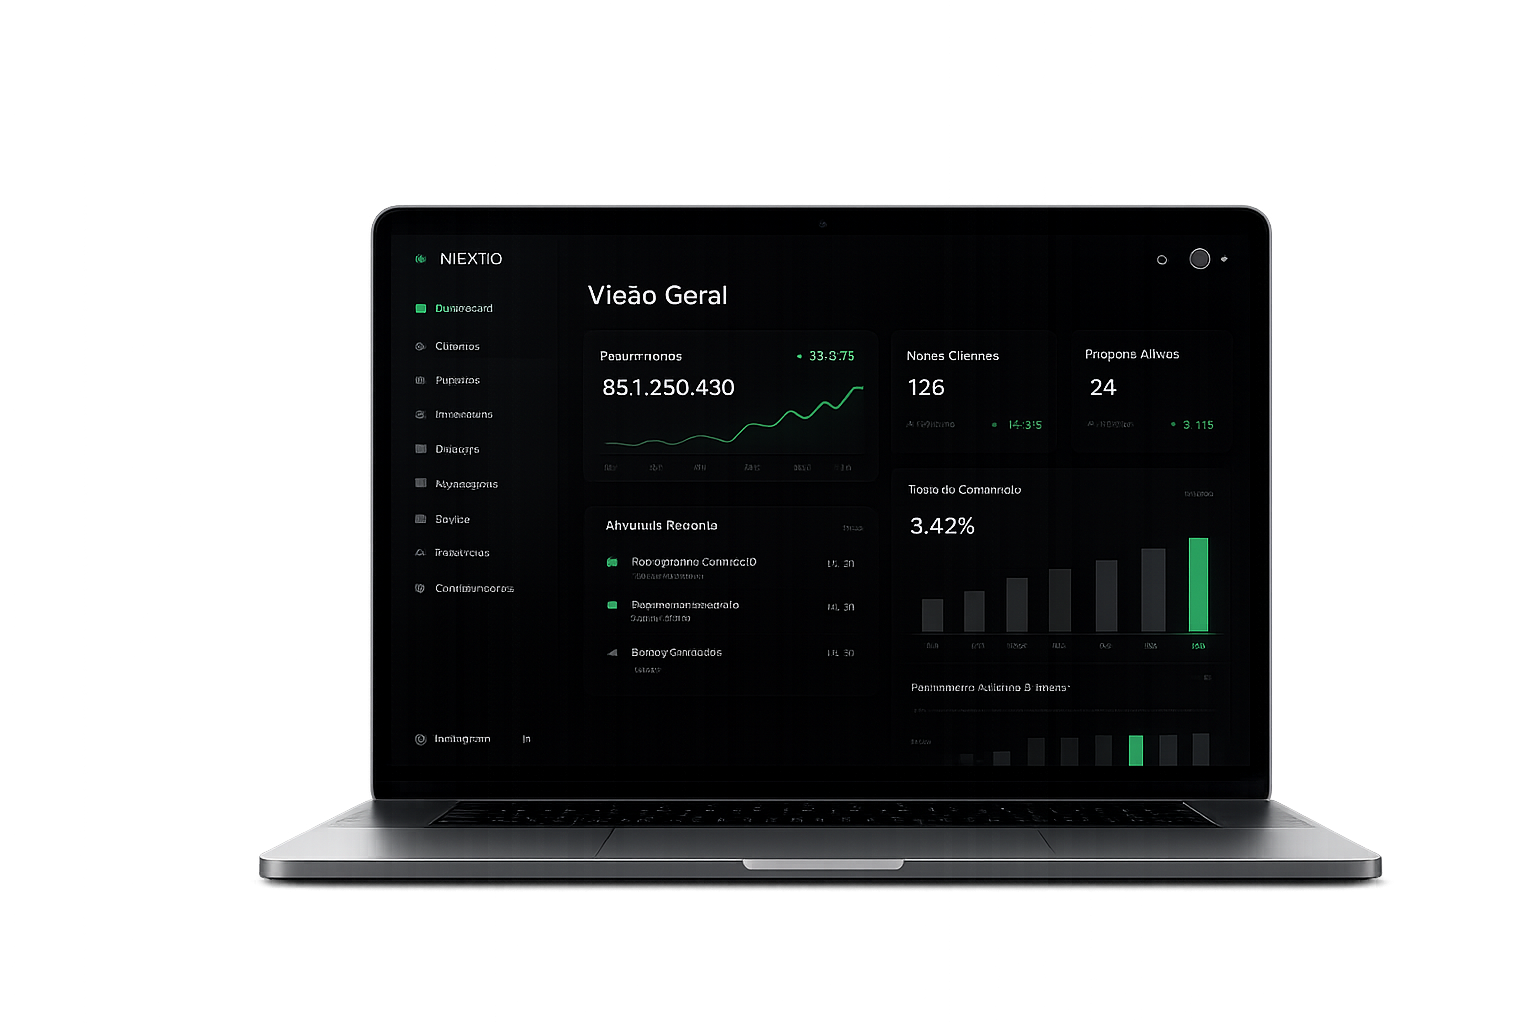
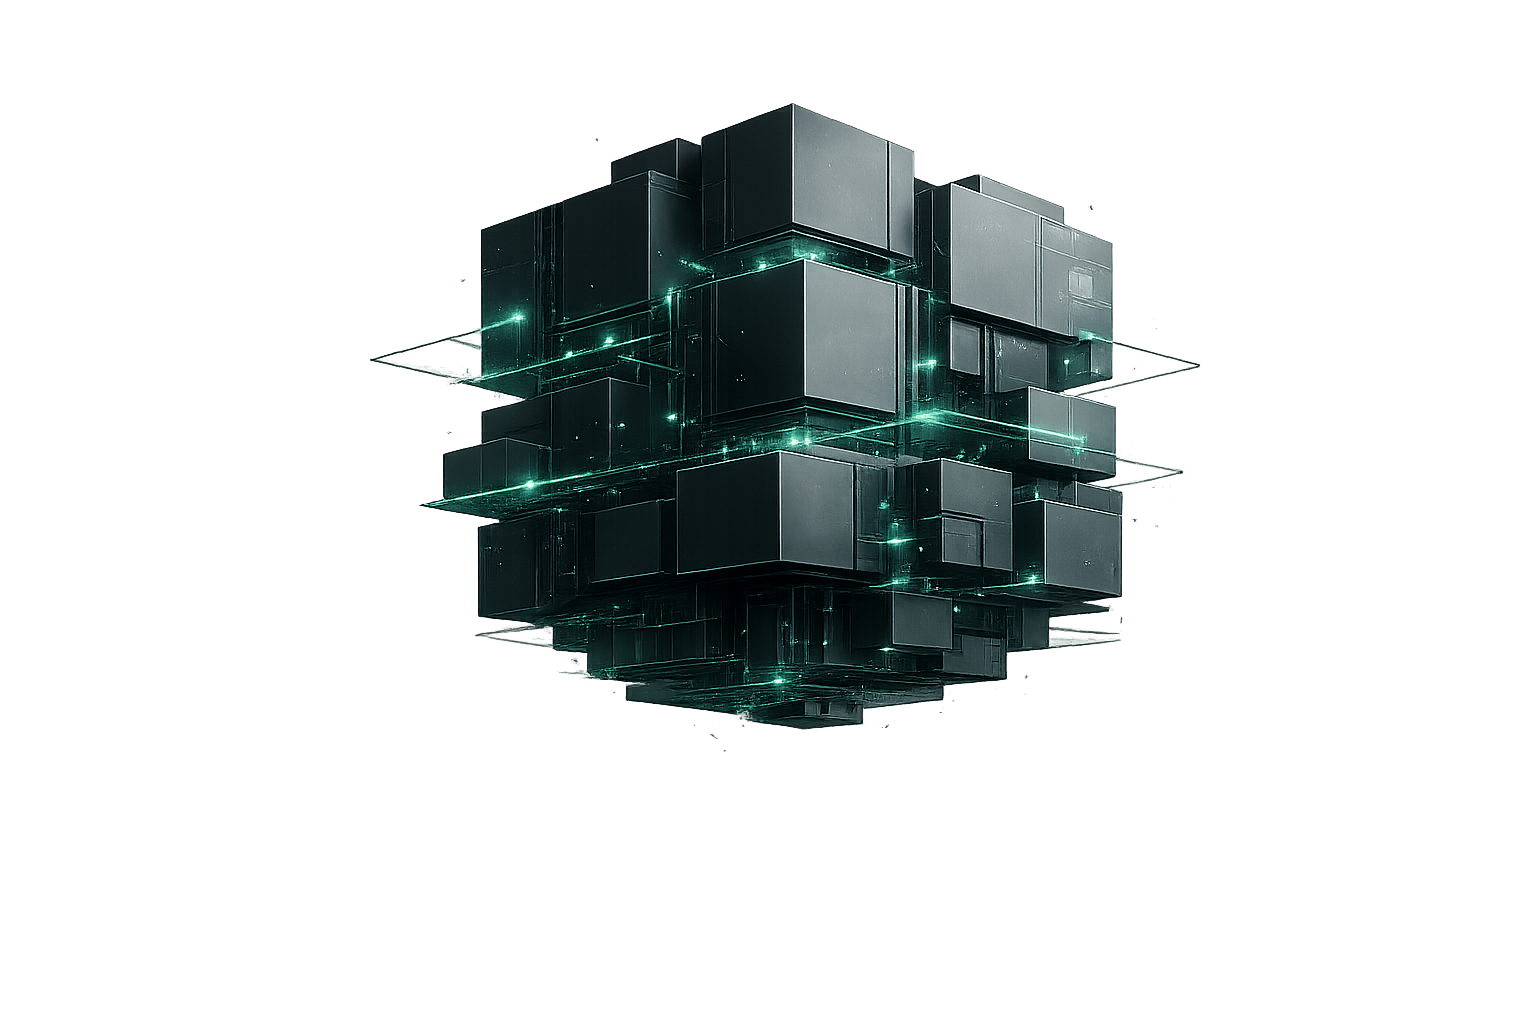
feat: update hero section responsive design, refresh assets, and adjust admin auth rate limits

diff --git a/frontend/src/components/Hero.tsx b/frontend/src/components/Hero.tsx
@@ -54,15 +54,15 @@ const Hero = () => {
             {...HERO_FADE_UP}
             className="mb-8"
           >
-            <div className="inline-flex items-center gap-3 px-2 py-2 pr-6 rounded-full bg-white/[0.02] backdrop-blur-md border border-white/[0.05] shadow-[0_0_30px_rgba(16,185,129,0.03)] hover:bg-white/[0.04] transition-all duration-300">
+            <div className="inline-flex items-center gap-2 sm:gap-3 px-1.5 py-1.5 pr-4 sm:px-2 sm:py-2 sm:pr-6 rounded-full bg-white/[0.02] backdrop-blur-md border border-white/[0.05] shadow-[0_0_30px_rgba(16,185,129,0.03)] hover:bg-white/[0.04] transition-all duration-300 max-w-full overflow-hidden">
               <img 
                 src="/avatar.webp" 
                 alt="Thomas" 
-                className="w-8 h-8 rounded-full object-cover grayscale opacity-80"
+                className="w-6 h-6 sm:w-8 sm:h-8 rounded-full object-cover grayscale opacity-80 shrink-0"
               />
-              <span className="flex items-center gap-2 text-[10px] sm:text-xs font-mono font-bold text-white/70 tracking-[0.2em] uppercase">
+              <span className="flex items-center gap-1.5 sm:gap-2 text-[8px] sm:text-xs font-mono font-bold text-white/70 tracking-[0.1em] sm:tracking-[0.2em] uppercase whitespace-nowrap truncate">
                 {greeting}
-                <AnimatedEmoji name="waving_hand" className="w-4 h-4 origin-bottom-right hover:animate-wave" />
+                <AnimatedEmoji name="waving_hand" className="w-3 h-3 sm:w-4 sm:h-4 origin-bottom-right hover:animate-wave shrink-0" />
               </span>
             </div>
           </motion.div>
@@ -88,14 +88,14 @@ const Hero = () => {
           <motion.div 
             {...HERO_FADE_UP}
             transition={{ ...SMOOTH_TRANSITION, delay: 0.25 }}
-            className="w-full max-w-[400px] mt-10 lg:hidden flex items-center justify-center relative order-2"
+            className="w-full max-w-[500px] mt-10 lg:hidden flex items-center justify-center relative order-2 scale-110"
           >
             <div className="absolute inset-0 bg-white/5 blur-[80px] rounded-full" />
             <motion.img 
               src={thomasHero} 
               alt="Thomas Eduardo" 
               className="w-full h-auto object-contain rounded-2xl relative z-10"
-              animate={{ scale: [1, 1.02, 1] }}
+              animate={{ y: [0, -15, 0], scale: [1.05, 1.12, 1.05] }}
               transition={{ duration: 6, repeat: Infinity, ease: "easeInOut" }}
             />
           </motion.div>
@@ -130,14 +130,14 @@ const Hero = () => {
           <motion.div 
             {...HERO_FADE_UP}
             transition={{ ...SMOOTH_TRANSITION, delay: 0.4 }}
-            className="w-full max-w-[800px] relative"
+            className="w-full max-w-[900px] relative scale-125 translate-x-4 lg:translate-x-8"
           >
             <div className="absolute inset-0 bg-white/5 blur-[100px] rounded-full" />
             <motion.img 
               src={thomasHero} 
               alt="Thomas Eduardo" 
               className="w-full h-auto object-contain relative z-10 drop-shadow-[0_0_40px_rgba(255,255,255,0.05)]"
-              animate={{ scale: [1, 1.03, 1] }}
+              animate={{ y: [0, -25, 0], scale: [1.05, 1.15, 1.05] }}
               transition={{ duration: 8, repeat: Infinity, ease: "easeInOut" }}
             />
           </motion.div>

diff --git a/backend/server/routes/auth.ts b/backend/server/routes/auth.ts
@@ -13,8 +13,8 @@ const prisma = new PrismaClient();
 const router = express.Router();
 
 const adminLoginLimiter = rateLimit({
-  windowMs: 15 * 60 * 1000,
-  max: 5,
+  windowMs: 1 * 60 * 1000,
+  max: 10,
   standardHeaders: true,
   legacyHeaders: false,
   handler: async (req, res) => {